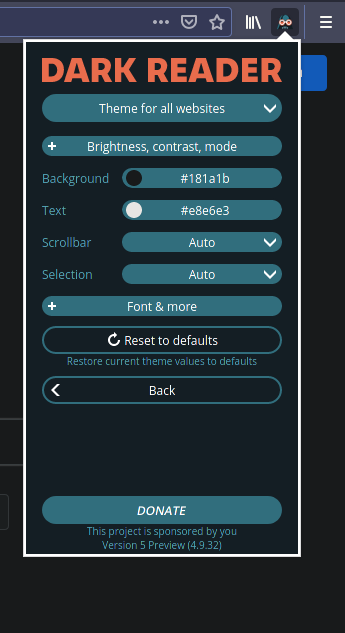
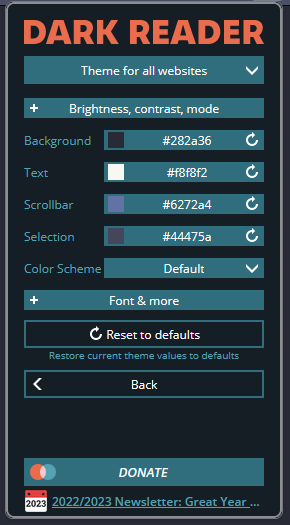
Updated for 2023, also deleted dead link etc.

diff --git a/README.md b/README.md
@@ -5,8 +5,55 @@
 ![Screenshot](./screenshot.png)
 
 ## Install
-
+<!---
+LINK IS DEAD
 All instructions can be found at [draculatheme.com/darkReader](https://draculatheme.com/darkReader).
+-->
+After installing a Dark Reader to web browser of choice, we will be proceeding to setting up DR for Dracula theme.
+
+    Click on "Dev Tools"
+
+![devtools](./assets/devtools.png)
+
+    Enable "Preview new design" to unlock full potential of DR
+![newdesign](./assets/newdesign.png)
+
+
+    Click "See all options" so we can make actual changes, after that click on "Colors"
+
+![custom_options](./assets/custom_options.png)
+
+    Set Dracula Theme hex values to following:
+
+
+Background --> `#282a36`
+
+
+Text --> `#f8f8f2`
+
+
+Scrollbar --> custom --> `#6272a4`
+
+
+Selection --> custom: --> `#44475a`
+<h2>Results should look like this:</h2>
+
+![colors](./assets/colors.png)
+
+## Optional
+### Custom Font
+Dark Reader also allows you to set custom fontsm that will be forced on websites.
+To achieve this come back to "See all options", and then "Fonts & more".
+
+Change "Change font" setting to Yes, then you will be able to change your fonts under "Font name".
+
+Drop down has a few default choices but you can manually type your font of choice, I've choose Inter.
+
+
+![optional_font](./assets/optional_custom_font.png)
+
+
+
 
 ## Team
 
